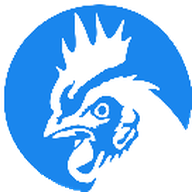
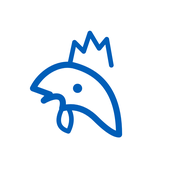
feat: update dashboard branding to SLH SVG line art
Design new SVG line art based on the previous generic logo, modified
to accurately reflect the spiky comb and profile of the official
Syarikat Sin Long Heng logo, facing left.

Inject the SVG line art into the 'Chicken Head' loader, navbar,
and login pages, retaining the original pulse/line drawing animation.

Generate high-quality 192x192 and 512x512 PNG app icons directly
from the new SVG.

Update manifest.json name and description to match official branding.

diff --git a/templates/base_tabler.html b/templates/base_tabler.html
@@ -153,9 +153,13 @@
     <div id="loading-overlay" class="loader-overlay" style="display:none;">
         <div class="chicken-loader">
             <svg width="120" height="120" viewBox="0 0 100 100" class="breeder-head-svg">
-                <path d="M 38.3,90.0 L 41.5,84.3 L 37.4,86.5 L 32.9,85.3 L 29.4,81.8 L 28.8,76.7 L 31.3,71.7 L 38.9,64.7 L 32.3,63.1 L 32.3,65.0 L 21.9,66.0 L 31.7,61.9 L 39.2,63.1 L 41.5,67.2 L 38.3,67.2 L 40.2,74.8 L 32.6,79.9 L 38.0,82.1 L 43.7,72.0 L 45.3,73.6 L 43.0,79.6 L 47.5,73.9 L 48.1,77.0 L 50.6,73.2 L 51.9,75.1 L 53.8,71.3 L 56.0,71.7 L 60.4,65.3 L 61.1,56.5 L 58.2,53.0 L 58.5,58.4" fill="none" stroke="currentColor" stroke-width="2.5" stroke-linecap="round" stroke-linejoin="round" class="comb-path"/>
-                <path d="M 58.5,58.4 L 53.5,59.6 L 53.2,61.9 L 56.6,62.2 L 51.3,68.8 L 53.2,68.8 L 58.2,61.9 L 59.2,63.4 L 52.5,71.3 L 49.1,68.5 L 49.1,66.0 L 54.1,52.1 L 48.1,47.3 L 43.0,47.9 L 33.9,56.5 L 38.6,53.6 L 42.4,58.1 L 47.5,57.4 L 46.2,59.3 L 41.1,61.9 L 30.4,60.6 L 18.1,65.3 L 22.5,55.2 L 21.2,46.4 L 25.0,38.8 L 23.8,34.3 L 28.2,35.0 L 26.3,21.7 L 30.4,27.7 L 32.6,25.5 L 32.3,10.0" fill="none" stroke="currentColor" stroke-width="2.5" stroke-linecap="round" stroke-linejoin="round" class="profile-path"/>
-                <path d="M 32.3,10.0 L 39.9,24.5 L 42.1,19.8 L 41.8,10.0 L 46.8,21.4 L 53.8,13.2 L 52.8,22.3 L 57.3,21.7 L 53.2,32.8 L 38.0,40.4 L 31.0,48.6 L 28.8,46.4 L 31.7,40.4 L 26.9,44.5 L 25.0,48.3 L 26.3,55.2 L 23.8,59.6 L 31.7,55.5 L 39.2,44.2 L 51.9,38.5 L 59.5,37.8 L 58.2,40.4 L 65.2,41.0 L 69.9,43.8 L 64.9,44.5 L 75.6,54.0 L 81.9,62.8 L 78.1,71.0 L 70.9,79.6 L 60.8,86.5 L 49.1,90.0" fill="none" stroke="currentColor" stroke-width="2.5" stroke-linecap="round" stroke-linejoin="round" class="wattle-path"/>
+                <path d="M 33,29 L 36,15 L 42,21 L 46,9 L 52,19 L 57,13 L 60,30"
+                      fill="none" stroke="currentColor" stroke-width="2.5" stroke-linecap="round" stroke-linejoin="round" class="comb-path"/>
+                <path d="M 65,75 C 65,50 55,35 35,30 C 25,28 14,35 9,45 L 20,49 L 16,53 C 25,48 30,50 28,58 Q 40,55 50,65 Q 60,75 65,75"
+                      fill="none" stroke="currentColor" stroke-width="3" stroke-linecap="round" stroke-linejoin="round" class="profile-path"/>
+                <path d="M 28,58 Q 22,70 32,73 Q 36,65 32,58"
+                      fill="none" stroke="currentColor" stroke-width="2" stroke-linecap="round" stroke-linejoin="round" class="wattle-path"/>
+                <circle cx="38" cy="45" r="2.5" fill="currentColor" />
             </svg>
             <p class="loader-text">Processing...</p>
         </div>
@@ -170,7 +174,12 @@
           </button>
           <h1 class="navbar-brand navbar-brand-autodark d-none-navbar-horizontal pe-0 pe-md-3">
             <a href="{{ url_for('index') }}" class="text-decoration-none text-white d-flex align-items-center">
-              <img src="{{ url_for('static', filename='slh-logo-head.png') }}" alt="SLH Logo" class="navbar-brand-image me-2" style="height: 32px; width: auto; filter: drop-shadow(0 0 2px rgba(255, 255, 255, 0.2));">
+              <svg width="24" height="24" viewBox="0 0 100 100" class="text-primary me-2">
+                  <path d="M 33,29 L 36,15 L 42,21 L 46,9 L 52,19 L 57,13 L 60,30" fill="none" stroke="currentColor" stroke-width="3" stroke-linecap="round" stroke-linejoin="round" />
+                  <path d="M 65,75 C 65,50 55,35 35,30 C 25,28 14,35 9,45 L 20,49 L 16,53 C 25,48 30,50 28,58 Q 40,55 50,65 Q 60,75 65,75" fill="none" stroke="currentColor" stroke-width="4" stroke-linecap="round" stroke-linejoin="round" />
+                  <path d="M 28,58 Q 22,70 32,73 Q 36,65 32,58" fill="none" stroke="currentColor" stroke-width="3" stroke-linecap="round" stroke-linejoin="round" />
+                  <circle cx="38" cy="45" r="3" fill="currentColor" />
+              </svg>
               SLH-OP <small class="text-muted ms-2 fs-5">({{ user_dept or 'Guest' }})</small>
             </a>
           </h1>

diff --git a/templates/login_modern.html b/templates/login_modern.html
@@ -4,7 +4,12 @@
     <div class="page page-center">
       <div class="container py-4" style="max-width: 400px; margin-top: 5rem;">
         <div class="text-center mb-4">
-            <img src="{{ url_for('static', filename='slh-logo-head.png') }}" alt="SLH Logo" style="width: 120px; height: auto;">
+            <svg width="80" height="80" viewBox="0 0 100 100" class="text-primary">
+                <path d="M 33,29 L 36,15 L 42,21 L 46,9 L 52,19 L 57,13 L 60,30" fill="none" stroke="currentColor" stroke-width="3" stroke-linecap="round" stroke-linejoin="round" />
+                <path d="M 65,75 C 65,50 55,35 35,30 C 25,28 14,35 9,45 L 20,49 L 16,53 C 25,48 30,50 28,58 Q 40,55 50,65 Q 60,75 65,75" fill="none" stroke="currentColor" stroke-width="4" stroke-linecap="round" stroke-linejoin="round" />
+                <path d="M 28,58 Q 22,70 32,73 Q 36,65 32,58" fill="none" stroke="currentColor" stroke-width="3" stroke-linecap="round" stroke-linejoin="round" />
+                <circle cx="38" cy="45" r="3" fill="currentColor" />
+            </svg>
             <h1 class="text-primary display-4 mt-3">SLH-OP</h1>
         </div>
         <div class="card card-md shadow-sm border-0">

diff --git a/templates/login.html b/templates/login.html
@@ -4,7 +4,12 @@
 <div class="row justify-content-center mt-5">
     <div class="col-md-6 col-lg-4">
         <div class="text-center mb-4">
-            <img src="{{ url_for('static', filename='slh-logo-head.png') }}" alt="SLH Logo" style="width: 120px; height: auto;">
+            <svg width="80" height="80" viewBox="0 0 100 100" class="text-primary">
+                <path d="M 33,29 L 36,15 L 42,21 L 46,9 L 52,19 L 57,13 L 60,30" fill="none" stroke="currentColor" stroke-width="3" stroke-linecap="round" stroke-linejoin="round" />
+                <path d="M 65,75 C 65,50 55,35 35,30 C 25,28 14,35 9,45 L 20,49 L 16,53 C 25,48 30,50 28,58 Q 40,55 50,65 Q 60,75 65,75" fill="none" stroke="currentColor" stroke-width="4" stroke-linecap="round" stroke-linejoin="round" />
+                <path d="M 28,58 Q 22,70 32,73 Q 36,65 32,58" fill="none" stroke="currentColor" stroke-width="3" stroke-linecap="round" stroke-linejoin="round" />
+                <circle cx="38" cy="45" r="3" fill="currentColor" />
+            </svg>
         </div>
         <div class="card shadow">
             <div class="card-header bg-primary text-white text-center">

diff --git a/generate_icons.py b/generate_icons.py
@@ -1,0 +1,6 @@
+from PIL import Image, ImageDraw
+
+def render_svg_to_png(out_path, size):
+    # PIL doesn't support SVG rendering out of the box.
+    # We can use CairoSVG if installed, or just write a small HTML and use Playwright to screenshot it precisely.
+    pass
